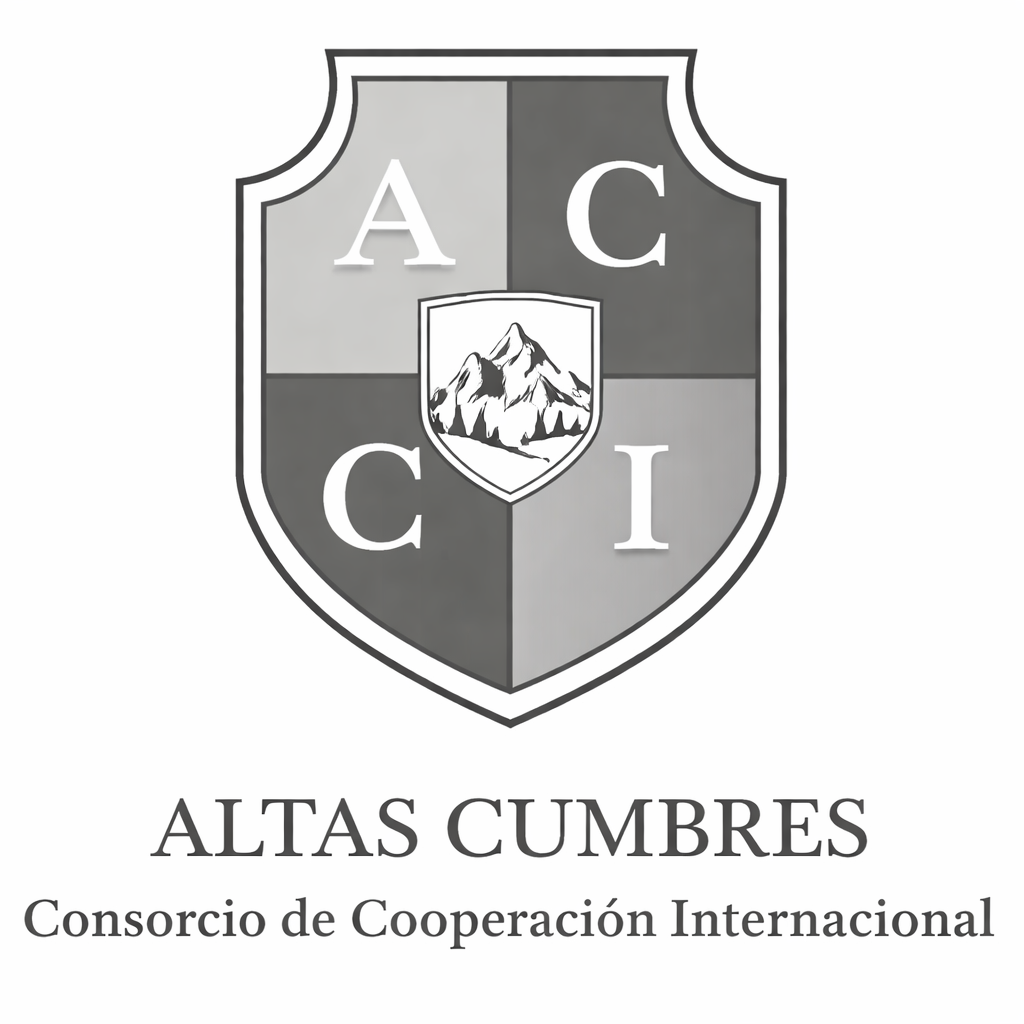
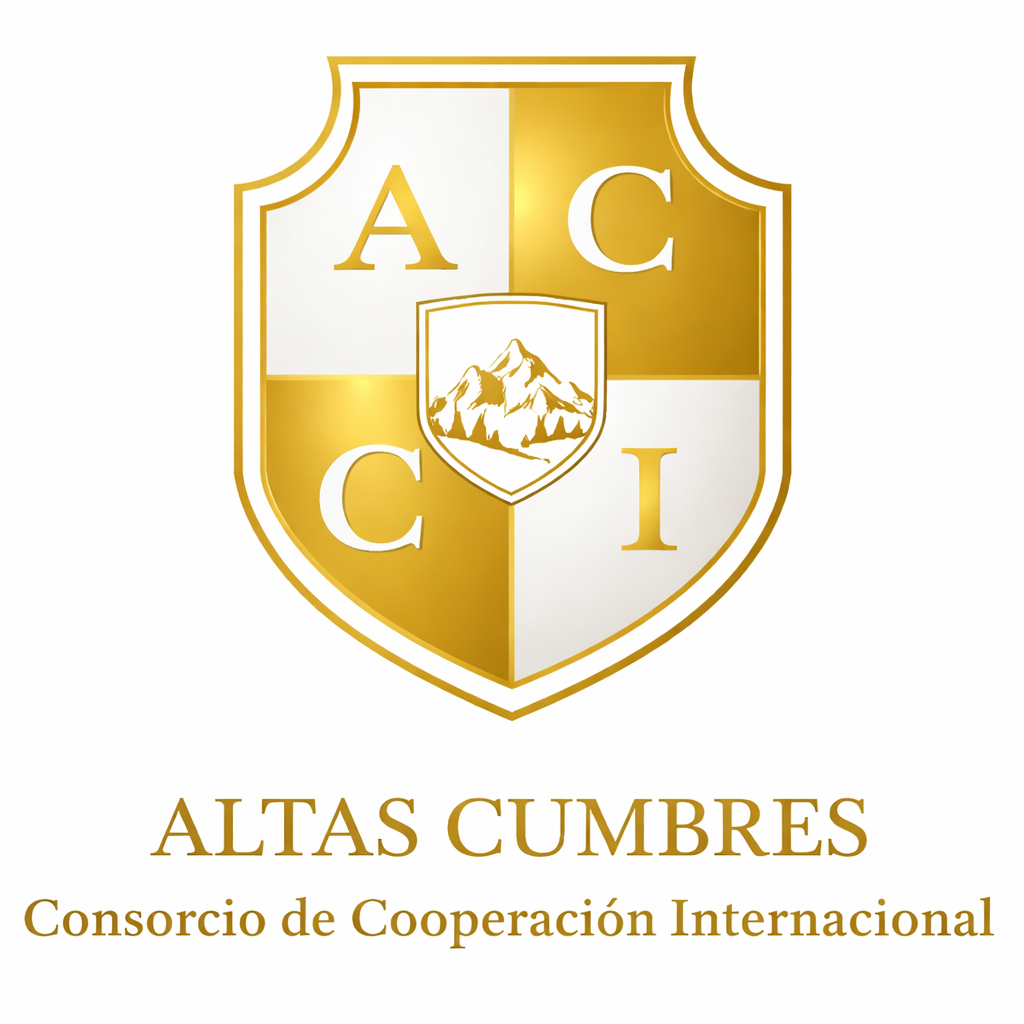
....

diff --git a/index.html b/index.html
@@ -19,7 +19,7 @@
     <nav class="nav">
       <a href="#inicio">INICIO</a>
       <a href="#quienes-somos">¿QUIÉNES SOMOS?</a>
-      <a href="#consorcio">CONSORCIOS</a>
+      <a href="#consorcio">FUNDACIONES</a>
       <a href="#servicios">¿QUÉ HACEMOS?</a>
       <a href="#inspiracion">INSPIRACIÓN</a>
       <a href="#contacto">CONTÁCTENOS</a>
@@ -135,8 +135,8 @@
 
     <div class="equipo-container2" id="consorcio">
       <div class="equipo-header">
-    <span class="subtitulo">Consorcios</span>
-    <h2>Fundamos estos dos Consorcios de Empresas</h2>
+  <span class="subtitulo">Fundamos dos consorcios y un Banco de Proyectos de Inversión</span>
+  <h2>Desarrollamos consorcios y entidades estratégicas</h2>
   </div>
   <div class="equipo-container">
 
@@ -151,6 +151,10 @@
       <img src="assets/altascumbres.png" alt="Altas cumbres">
     </div>
 
+        <!-- Latitud Sur-->
+    <div class="consorcio" >
+      <img src="assets/bipsa.jpeg" alt="Bipsa">
+    </div>
   </div>
     </div>
 
@@ -240,7 +244,13 @@
         <h3>Optimización de Procesos</h3>
         <p>Mejora de eficiencia y control estratégico operativo.</p>
       </div>
-
+      <div class="area-card reveal">
+        <div class="icon">
+<svg fill="#C9A66B" version="1.1" id="Layer_1" xmlns="http://www.w3.org/2000/svg" xmlns:xlink="http://www.w3.org/1999/xlink" viewBox="0 0 32 32" xml:space="preserve"><g id="SVGRepo_bgCarrier" stroke-width="0"></g><g id="SVGRepo_tracerCarrier" stroke-linecap="round" stroke-linejoin="round"></g><g id="SVGRepo_iconCarrier"> <path id="justice_1_" d="M26,31.36H6v-0.72h6.659c0.167-1.565,1.415-2.813,2.981-2.98V13.333c-1.131-0.174-2-1.154-2-2.333 s0.869-2.159,2-2.333V5.279L6.03,7.851l4.283,7.495c0.031,0.055,0.047,0.116,0.047,0.179c0,2.68-2.18,4.86-4.86,4.86 s-4.86-2.181-4.86-4.86c0-0.062,0.016-0.124,0.047-0.179l4.5-7.875C5.237,7.384,5.319,7.323,5.414,7.3L5.406,7.272l21.001-5.62l0,0 c0.146-0.042,0.325,0.029,0.405,0.169l4.5,7.875c0.031,0.055,0.048,0.116,0.048,0.179c0,2.68-2.181,4.86-4.86,4.86 s-4.86-2.18-4.86-4.86c0-0.062,0.017-0.124,0.048-0.179L25.76,2.57l-9.4,2.516v3.581c1.131,0.174,2,1.154,2,2.333 s-0.869,2.159-2,2.333V27.66c1.566,0.167,2.814,1.415,2.981,2.98H26V31.36z M13.384,30.64h5.231c-0.176-1.286-1.281-2.28-2.615-2.28 C14.667,28.36,13.561,29.354,13.384,30.64z M1.388,16.009c0.241,2.055,1.993,3.655,4.112,3.655s3.871-1.6,4.112-3.655H1.388z M1.549,15.29h7.902L5.5,8.375L1.549,15.29z M22.389,10.36c0.24,2.055,1.992,3.655,4.111,3.655s3.871-1.6,4.111-3.655H22.389z M16,9.36c-0.904,0-1.64,0.736-1.64,1.64s0.736,1.64,1.64,1.64c0.904,0,1.64-0.736,1.64-1.64S16.904,9.36,16,9.36z M22.549,9.641 h7.902L26.5,2.726L22.549,9.641z"></path> <rect id="_Transparent_Rectangle" style="fill:none;" width="32" height="32"></rect> </g></svg>
+        </div>
+        <h3>Corporate Governance,Finance & Law</h3>
+        <p>Brindamos asesoramiento en gobierno corporativo, finanzas y derecho, impulsando decisiones seguras y sostenibles.</p>
+      </div>
     </div>
 
   </div>
@@ -411,14 +421,12 @@
     <li>Contratos y Asesoramiento Empresarial</li>
     <li>Fusiones y Adquisiciones (M&A)</li>
     <li>Litigios y Resolución de Conflictos</li>
+    <li>Corporate Governance,Finance & Law</li>
 </ul>
 </div>
 
 <div class="footer-col">
 <h4>Contacto</h4>
-<a href="https://wa.me/542646033020" target="_blank">
-  <p>WhatsApp</p>
-</a>
 <a href="mailto:[email redacted]">
   <p>Email</p>
 </a>